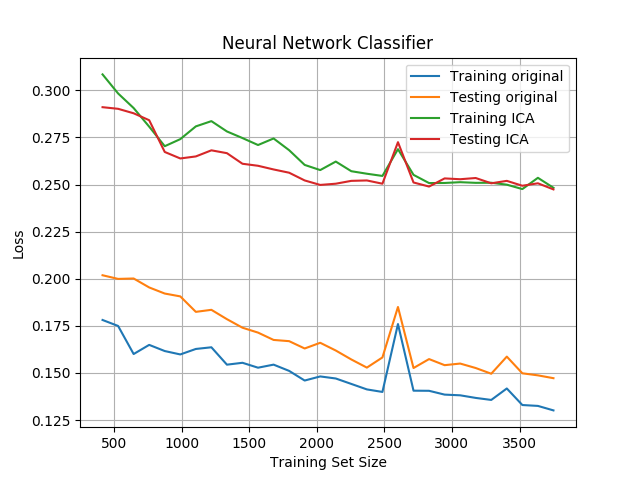
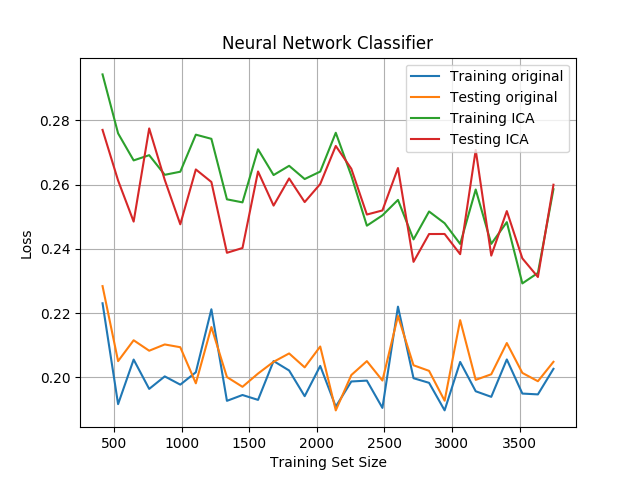
final

diff --git a/dim/PCA.py b/dim/PCA.py
@@ -16,15 +16,10 @@ def vector_distance(x, y):
         s += d[i]*d[i]
     return sqrt(s)
 
-def image_from_features(features):
-    image = [[features[y * 8 + x] for x in range(7)] for y in range(8)]
-    return image
-
 DATASET = phoneme
 N_COMPONENTS = 4
 N_CLUSTERS = 2
-MODE = "nothing"
-EXPERIMENT = 'compute_time'
+MODE = 'compute_time'
 
 # General Options
 TITLE = 'Neural Network Classifier'
@@ -52,41 +47,20 @@ for i, c in enumerate(kmeans.labels_):
     else:
         report[c][real_label] += 1
 
-if MODE == "pretty":
-    for key in sorted(report):
-        value = report[key]
-        print("Cluster #{}".format(key))
-        max_label_count = 0
-        max_label = 0
-        for key2 in sorted(value):
-            value2 = value[key2]
-            if value2 > max_label_count:
-                max_label_count = value2
-                max_label = key2
-            print("\tLabel {}: {} instance(s)".format(key2, value2))
-        print("\tMost instances for label {}\n".format(max_label))
-elif MODE == "report":
-    final_out = ""
-    for key in sorted(report):
-        value = report[key]
-        out = [str(key)]
-        max_instance_count = 0
-        max_label = None
-        for label in sorted(labels):
-            if label in value.keys():
-                out.append(str(value[label]))
-                if value[label] > max_instance_count:
-                    max_instance_count = value[label]
-                    max_label = label
-            else:
-                out.append('0')
-        out.append(str(max_label))
-        out = ' & '.join(out) + "\\\\ \\hline \n"
-        final_out += out
+for key in sorted(report):
+    value = report[key]
+    print("Cluster #{}".format(key))
+    max_label_count = 0
+    max_label = 0
+    for key2 in sorted(value):
+        value2 = value[key2]
+        if value2 > max_label_count:
+            max_label_count = value2
+            max_label = key2
+        print("\tLabel {}: {} instance(s)".format(key2, value2))
+    print("\tMost instances for label {}\n".format(max_label))
 
-    print(final_out)
-
-if EXPERIMENT == 'learning':
+if MODE == 'learning':
     classifier_pca = neural_network.MLPClassifier(
         learning_rate_init=LEARNING_RATE,
         tol=TOLERANCE,
@@ -127,7 +101,7 @@ if EXPERIMENT == 'learning':
     plt.plot(train_size_abs_pca, test_losses_pca)
     plt.legend(['Training original', 'Testing original', 'Training PCA', 'Testing PCA'])
     plt.show()
-elif EXPERIMENT == 'compute_time':
+elif MODE == 'compute_time':
     plot_x = []
     plot_y_scoring = []
     plot_y_fitting = []
@@ -184,7 +158,7 @@ elif EXPERIMENT == 'compute_time':
     plt.plot(plot_x, plot_y_fitting_pca)
     plt.legend(['Scoring', 'Fitting', 'Scoring PCA', 'Fitting PCA'])
     plt.show()
-elif EXPERIMENT == 'reconstruction':
+elif MODE == 'reconstruction':
     inverse_new_data = pca.inverse_transform(new_data)
     max_distance = 0
     max_index = 0

diff --git a/dim/ICA.py b/dim/ICA.py
@@ -19,8 +19,7 @@ def vector_distance(x, y):
 DATASET = digits
 N_COMPONENTS = 19
 N_CLUSTERS = 10
-MODE = "nothing"
-EXPERIMENT = 'learning'
+MODE = 'learning'
 
 # General Options
 TITLE = 'Neural Network Classifier'
@@ -49,41 +48,20 @@ for i, c in enumerate(kmeans.labels_):
     else:
         report[c][real_label] += 1
 
-if MODE == "pretty":
-    for key in sorted(report):
-        value = report[key]
-        print("Cluster #{}".format(key))
-        max_label_count = 0
-        max_label = 0
-        for key2 in sorted(value):
-            value2 = value[key2]
-            if value2 > max_label_count:
-                max_label_count = value2
-                max_label = key2
-            print("\tLabel {}: {} instance(s)".format(key2, value2))
-        print("\tMost instances for label {}\n".format(max_label))
-elif MODE == "report":
-    final_out = ""
-    for key in sorted(report):
-        value = report[key]
-        out = [str(key)]
-        max_instance_count = 0
-        max_label = None
-        for label in sorted(labels):
-            if label in value.keys():
-                out.append(str(value[label]))
-                if value[label] > max_instance_count:
-                    max_instance_count = value[label]
-                    max_label = label
-            else:
-                out.append('0')
-        out.append(str(max_label))
-        out = ' & '.join(out) + "\\\\ \\hline \n"
-        final_out += out
+for key in sorted(report):
+    value = report[key]
+    print("Cluster #{}".format(key))
+    max_label_count = 0
+    max_label = 0
+    for key2 in sorted(value):
+        value2 = value[key2]
+        if value2 > max_label_count:
+            max_label_count = value2
+            max_label = key2
+        print("\tLabel {}: {} instance(s)".format(key2, value2))
+    print("\tMost instances for label {}\n".format(max_label))
 
-    print(final_out)
-
-if EXPERIMENT == 'learning':
+if MODE == 'learning':
     classifier_ica = neural_network.MLPClassifier(
         learning_rate_init=LEARNING_RATE,
         tol=TOLERANCE,
@@ -124,7 +102,7 @@ if EXPERIMENT == 'learning':
     plt.plot(train_size_abs_ica, test_losses_ica)
     plt.legend(['Training original', 'Testing original', 'Training ICA', 'Testing ICA'])
     plt.show()
-elif EXPERIMENT == 'compute_time':
+elif MODE == 'compute_time':
     plot_x = []
     plot_y_scoring = []
     plot_y_fitting = []
@@ -181,7 +159,7 @@ elif EXPERIMENT == 'compute_time':
     plt.plot(plot_x, plot_y_fitting_pca)
     plt.legend(['Scoring', 'Fitting', 'Scoring ICA', 'Fitting ICA'])
     plt.show()
-elif EXPERIMENT == 'reconstruction':
+elif MODE == 'reconstruction':
     inverse_new_data = ica.inverse_transform(new_data)
     max_distance = 0
     max_index = 0

diff --git a/dim/FA.py b/dim/FA.py
@@ -4,7 +4,7 @@ import sys
 sys.path.append(os.path.join(os.getcwd(), os.pardir))
 
 from datasets import digits, phoneme
-from sklearn import random_projection, cluster, metrics, neural_network, model_selection
+from sklearn import decomposition, cluster, metrics, neural_network, model_selection
 from math import sqrt
 import matplotlib.pyplot as plt
 import numpy as np
@@ -16,11 +16,11 @@ def vector_distance(x, y):
         s += d[i]*d[i]
     return sqrt(s)
 
-DATASET = phoneme
+DATASET = digits
 N_LABELS = 10
-N_COMPONENTS = 4
-N_CLUSTERS = 2
-MODE = 'learning'
+N_COMPONENTS = 19
+N_CLUSTERS = 10
+MODE = 'nothing'
 
 # General Options
 TITLE = 'Neural Network Classifier'
@@ -29,8 +29,8 @@ LEARNING_RATE = 1e-1
 TOLERANCE = 1e-4
 TOPOLOGY = (3,)
 
-rp = random_projection.GaussianRandomProjection(n_components=N_COMPONENTS)
-new_data = rp.fit_transform(DATASET.training_features)
+fa = decomposition.FactorAnalysis(n_components=N_COMPONENTS)
+new_data = fa.fit_transform(DATASET.training_features)
 
 report = {}
 labels = []
@@ -69,8 +69,7 @@ if MODE == 'learning':
     train_scores_rp = np.array([])
 
     for i in range(N_REPEAT):
-        if i % 50 == 0:
-            print("{}/{}".format(i, N_REPEAT))
+        print("{}/{}".format(i, N_REPEAT))
         classifier = neural_network.MLPClassifier(
             learning_rate_init=LEARNING_RATE,
             tol=TOLERANCE,
@@ -147,13 +146,13 @@ elif MODE == 'compute_time':
     plt.plot(plot_x, plot_y_fitting_pca)
     plt.legend(['Scoring', 'Fitting', 'Scoring PCA', 'Fitting PCA'])
     plt.show()
-if MODE == 'compare':
+elif MODE == 'compare':
     success = 0
     for i in range(1000):
         if i % 50 == 0:
             print("{}/{}".format(i, 1000))
-        rp = random_projection.GaussianRandomProjection(n_components=N_COMPONENTS)
-        new_data = rp.fit_transform(DATASET.training_features)
+        fa = decomposition.FactorAnalysis(n_components=N_COMPONENTS)
+        new_data = fa.fit_transform(DATASET.training_features)
         kmeans = cluster.KMeans(n_clusters=N_CLUSTERS)
         kmeans.fit(new_data)
         count = {}
